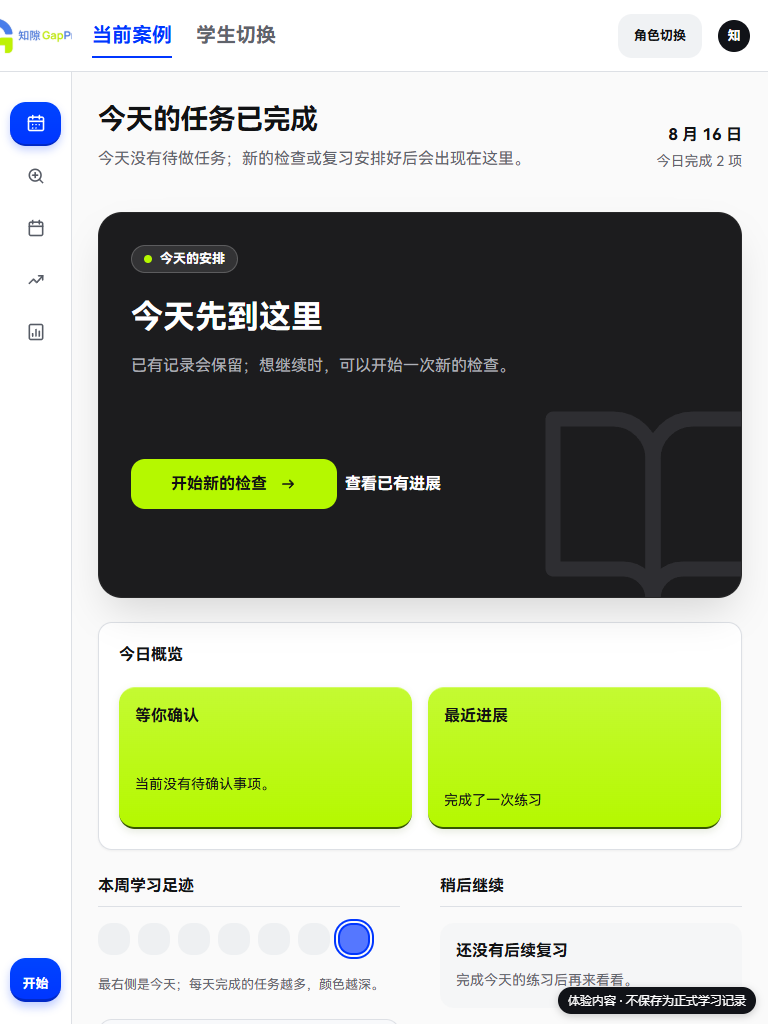
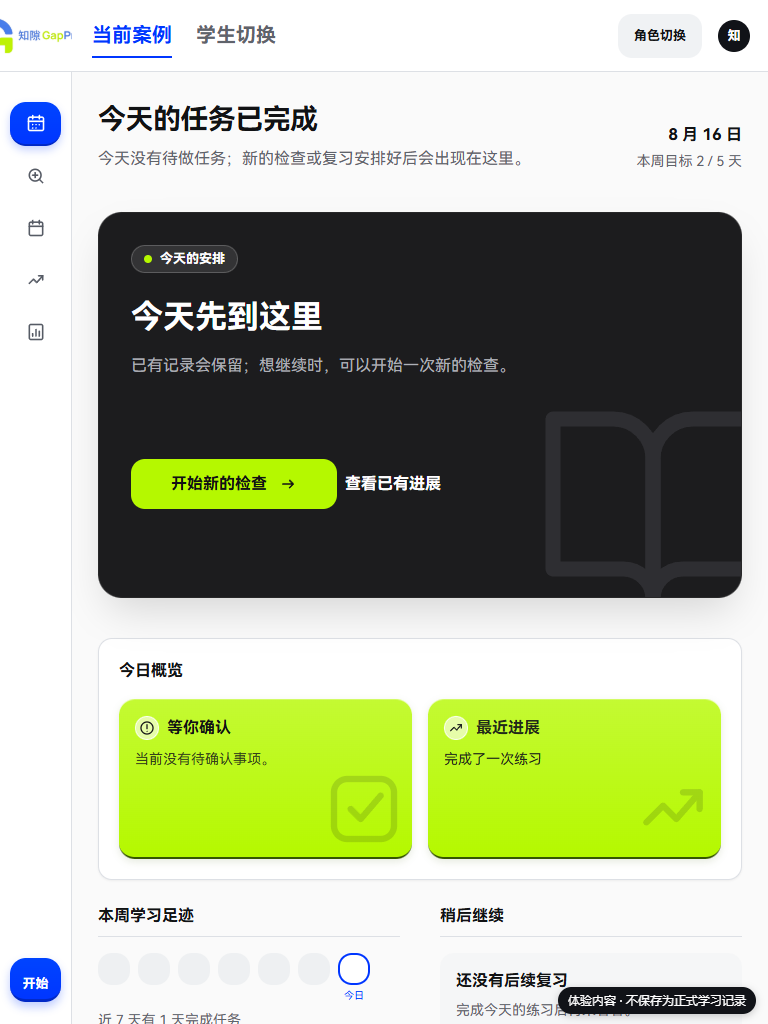
fix: match live Today to Stitch details

Changed region(s): [[0.125, 0.625, 0.9375, 1.0], [0.125, 0.875, 0.5, 1.0], [0.8438, 0.125, 0.9688, 0.1875]]

diff --git a/apps/web/app/globals.css b/apps/web/app/globals.css
@@ -26,7 +26,7 @@ a:focus-visible,button:focus-visible,summary:focus-visible{outline:2px solid var
 .today-grid{display:grid;grid-template-columns:minmax(0,2fr) minmax(0,1fr);gap:40px;align-items:start}.main-column{min-width:0;display:flex;flex-direction:column;gap:24px}.hero-card{position:relative;overflow:hidden;border-radius:24px;background:#1c1c1e;color:#fff;padding:40px;box-shadow:0 20px 40px -10px rgba(0,0,0,.15);border:1px solid rgba(255,255,255,.05)}.hero-content{position:relative;z-index:1;display:flex;flex-direction:column;align-items:flex-start;min-height:320px}.task-label-row{width:100%;display:flex;align-items:flex-start;margin-bottom:24px}.dark-chip,.time-chip{min-height:28px;border-radius:999px;display:flex;align-items:center;gap:8px;padding:4px 12px;font-size:13px;line-height:18px;font-weight:700}.dark-chip{background:rgba(255,255,255,.1);border:1px solid rgba(255,255,255,.2)}.dark-chip i{width:8px;height:8px;background:var(--lime);border-radius:50%}.time-chip{position:absolute;z-index:2;top:40px;right:40px;color:var(--lime);background:rgba(181,248,0,.1);border:1px solid rgba(181,248,0,.2)}.time-chip svg{width:16px;height:16px}
 .hero-card h2{font-size:32px;line-height:40px;margin:0 0 16px;font-weight:700}.hero-content>p{font-size:16px;line-height:26px;color:#aeb0b7;margin:0 0 32px;max-width:512px}.steps{padding-top:16px;margin:0 0 auto;display:flex;flex-wrap:wrap;gap:16px;align-items:center;position:relative;z-index:2}.steps>div{min-height:38px;padding:8px 16px;display:flex;align-items:center;gap:8px;border-radius:999px;background:#2c2c2e;border:1px solid rgba(255,255,255,.1);color:rgba(255,255,255,.7);font-size:13px;line-height:18px;font-weight:700;white-space:nowrap}.steps>div:first-child{background:rgba(255,255,255,.1);border-color:rgba(255,255,255,.2);color:#fff}.steps b{display:grid;place-items:center;width:20px;height:20px;border-radius:50%;background:rgba(255,255,255,.2);color:rgba(255,255,255,.7);font-size:12px}.steps>div:first-child b{background:#fff;color:#1c1c1e}.path-arrow{width:16px;height:16px;color:rgba(255,255,255,.4);flex:none}.cta-row{margin-top:48px;width:100%;display:flex;align-items:center}.lime-button,.primary-blue,.dark-button{min-height:48px;padding:0 26px;border-radius:12px;display:inline-flex;align-items:center;justify-content:center;gap:12px;font-weight:750}.lime-button{min-height:50px;padding:0 40px;border-radius:14px;background:var(--lime);color:#111214;position:relative;z-index:2}.lime-button svg,.primary-blue svg{width:18px;height:18px}.lime-button:hover{filter:brightness(.96)}.primary-blue{background:var(--blue);color:#fff}.primary-blue:hover{background:var(--blue-hover)}.dark-button{min-height:44px;padding:0 16px;background:var(--dark);color:#fff;box-shadow:0 2px 4px rgba(0,0,0,.18)}
 .book-art{position:absolute;right:0;bottom:0;width:240px;height:240px;transform:translate(32px,32px);opacity:.2;color:#777982;pointer-events:none}
-.overview{background:#fff;border:1px solid var(--border);border-radius:14px;padding:24px;box-shadow:0 1px 2px rgba(17,19,24,.05)}.overview>h2,.footprint h2,.continue>h2{font-size:16px;line-height:24px;margin:0 0 16px;font-weight:650}.overview-grid{display:grid;grid-template-columns:1fr 1fr;gap:16px}.lime-card{position:relative;overflow:hidden;min-height:176px;background:linear-gradient(to bottom,#c4fa32,#b5f800);border-top:1px solid rgba(255,255,255,.4);border-bottom:2px solid #355500;border-radius:16px;padding:16px;box-shadow:0 3px 8px rgba(60,90,0,.12);display:flex;flex-direction:column;justify-content:space-between}.lime-heading{display:flex;align-items:center;gap:8px;margin-bottom:8px}.lime-heading svg{width:24px;height:24px;padding:3px;border-radius:50%;background:rgba(255,255,255,.6);border:1px solid rgba(255,255,255,.8)}.lime-heading h3{font-size:16px;line-height:24px;margin:0}.lime-card p{margin:0 0 16px;font-size:14px;line-height:22px;max-width:90%;position:relative;z-index:2}.lime-card .card-art{position:absolute;width:80px;height:80px;right:8px;bottom:8px;padding:0;border:0;background:none;border-radius:0;opacity:.15}.dark-button{position:relative;z-index:2;align-self:flex-start;margin-top:auto}
+.overview{margin-top:16px;background:#fff;border:1px solid var(--border);border-radius:14px;padding:24px;box-shadow:0 1px 2px rgba(0,0,0,.05)}.overview>h2,.footprint h2,.continue>h2{font-size:16px;line-height:24px;margin:0 0 16px;font-weight:650}.overview-grid{display:grid;grid-template-columns:1fr 1fr;gap:16px}.lime-card{position:relative;overflow:hidden;min-height:160px;background:linear-gradient(to bottom,#c4fa32,#b5f800);border-top:1px solid rgba(255,255,255,.4);border-bottom:2px solid #355500;border-radius:16px;padding:16px;box-shadow:0 3px 8px rgba(60,90,0,.12);display:flex;flex-direction:column;justify-content:space-between}.lime-content{position:relative;z-index:2}.lime-heading{display:flex;align-items:center;gap:8px;margin-bottom:8px}.lime-heading svg{width:24px;height:24px;padding:3px;border-radius:50%;background:rgba(255,255,255,.6);border:1px solid rgba(255,255,255,.8)}.lime-heading h3{font-size:16px;line-height:24px;margin:0;font-weight:650}.lime-card p{margin:0;font-size:14px;line-height:22px;max-width:90%;position:relative;z-index:2;color:rgba(17,19,24,.8)}.lime-card .card-art{position:absolute;width:80px;height:80px;right:8px;bottom:8px;padding:0;border:0;background:none;border-radius:0;opacity:.15}.dark-button{position:relative;z-index:2;align-self:flex-start;margin-top:auto}
 .right-column{display:flex;flex-direction:column;gap:40px;align-content:start}.footprint,.continue{background:transparent}.footprint h2,.continue>h2{padding-bottom:8px;border-bottom:1px solid var(--border)}.day-grid{display:grid;grid-template-columns:repeat(7,32px);gap:8px;margin:0 0 24px}.day-grid>span{display:block;width:32px;height:32px;border-radius:14px;background:#eef0f2;position:relative}.day-grid .done{background:var(--blue)}.day-grid .today{background:#fff;border:2px solid var(--blue)}.day-grid i{position:absolute;top:calc(100% + 5px);left:50%;transform:translateX(-50%);font-size:10px;color:var(--blue);font-style:normal;white-space:nowrap}.footprint p{font-size:14px;line-height:22px;color:var(--ink-2);margin:0}
 .continue-list{display:flex;flex-direction:column;gap:16px}.continue article{background:#fff;border:1px solid var(--border);border-radius:14px;padding:16px;box-shadow:0 1px 2px rgba(17,19,24,.05)}.task-row,.progress-row{display:flex;align-items:flex-start;justify-content:space-between;gap:12px}.task-row{margin-bottom:8px}.task-row strong{font-size:16px;line-height:24px}.task-row span,.progress-row>span{color:var(--ink-2);font-size:14px;line-height:22px;white-space:nowrap;font-variant-numeric:tabular-nums}.progress-row{align-items:center}.mini-progress{flex:1;height:8px;border-radius:999px;background:var(--surface-2);overflow:hidden}.mini-progress i{display:block;height:100%;background:var(--blue);border-radius:inherit}
 .next-check{background:#fff;border:1px solid var(--border);border-radius:14px;padding:24px;box-shadow:0 1px 2px rgba(17,19,24,.05);display:flex;flex-direction:column;gap:16px}.next-check header{display:flex;justify-content:space-between;align-items:center;border-bottom:1px solid var(--border);padding-bottom:12px;margin:0;font-size:13px;line-height:18px}.next-check header span{display:flex;align-items:center;gap:8px;font-weight:700}.next-check header svg{width:16px;height:16px;color:var(--blue)}.next-check h2{font-size:16px;line-height:24px;margin:0 0 4px}.next-check p{font-size:14px;line-height:22px;color:var(--ink-2);margin:0 0 4px}.next-check button{width:100%;min-height:44px;background:#fff;border:1px solid var(--border);border-radius:14px;margin:0;font-weight:700}.next-check button:disabled{opacity:.72}.next-check small{display:block;text-align:center;color:var(--ink-3);font-size:12px;line-height:18px}
@@ -45,7 +45,7 @@ a:focus-visible,button:focus-visible,summary:focus-visible{outline:2px solid var
 @media (max-width:900px){.upload-layout{grid-template-columns:1fr}.upload-page{padding:30px 26px}.upload-guidance{order:2}}
 @media (max-width:640px){html,body{height:auto;min-height:100%;overflow:auto}.app-shell{display:block;height:auto;min-height:100vh;min-height:100dvh;overflow:visible}.topbar{height:64px;position:sticky;top:0}.brand-crop{width:150px;height:63px}.brand-source{width:158px!important;height:158px!important;left:-4px}.top-tabs,.top-actions,.sidebar{display:none}.mobile-menu{display:block;position:fixed;right:12px;top:10px;z-index:8}.mobile-menu summary{list-style:none;width:44px;height:44px;display:grid;place-items:center;border-radius:12px;background:var(--surface-2);cursor:pointer}.mobile-menu summary svg{width:24px}.mobile-menu nav{position:absolute;right:0;top:50px;width:190px;display:grid;padding:10px;background:#fff;border:1px solid var(--border);border-radius:14px;box-shadow:0 12px 32px rgba(17,18,20,.12)}.mobile-menu nav a{min-height:44px;padding:8px 12px}.content{height:auto;min-height:calc(100vh - 64px);overflow:visible;overscroll-behavior:auto}.today-page,.placeholder-page{padding:24px 18px 92px}.title-row{display:block;margin-bottom:24px}.title-row h1,.placeholder-page h1{font-size:27px}.date-summary{text-align:left;margin-top:14px}.today-grid{display:block}.hero-card{height:auto;min-height:460px;padding:24px 20px}.hero-meta{align-items:flex-start;gap:8px;flex-wrap:wrap}.hero-card h2{font-size:25px}.steps{align-items:stretch;flex-direction:column;margin:26px 0}.steps li+li:before{display:none}.cta-row{align-items:stretch;flex-direction:column;gap:12px}.cta-row .lime-button{width:100%;padding-inline:20px}.cta-row .hero-secondary-link{justify-content:center}.overview{padding:18px;margin-bottom:22px}.overview-grid,.onboarding-notes{grid-template-columns:1fr}.right-column{display:grid;grid-template-columns:1fr}.day-grid{gap:7px}.onboarding-main{padding:24px 18px}.button-row{align-items:stretch;flex-direction:column}.ghost-link{justify-content:center}.state-card{padding:28px 20px;display:block}.state-card>svg{margin-bottom:20px}.sk-title{width:100%}.sk-line{width:80%}.sk-hero{height:440px}.right-column{margin-top:24px}}
 
-.overview-panel h2{margin-bottom:20px}.overview-facts{margin-top:0}.overview-activity>p,.overview-goal span{display:block;color:var(--ink-2);font-size:13px;line-height:20px;margin:0}.server-day-grid{grid-template-columns:repeat(7,32px);margin-bottom:20px}.server-day-grid .activity-level-0{background:#eef0f2}.server-day-grid .activity-level-1{background:#b8c7ff}.server-day-grid .activity-level-2{background:#5577ff}.server-day-grid .activity-level-3{background:#0036ff}.server-day-grid .today{outline:2px solid #0036ff;outline-offset:2px}.overview-goal{margin-top:24px;padding:16px;border:1px solid var(--border);border-radius:14px;background:#f8f9fb}.overview-goal h3{font-size:15px;line-height:22px;margin:0 0 12px}.overview-goal p{font-size:24px;line-height:32px;font-weight:750;margin:0 0 4px}.overview-fact-card{min-height:142px}.overview-fact-card p{max-width:100%}.recent-progress-list{display:grid;gap:8px;margin:0;padding:0;list-style:none;font-size:14px;line-height:21px;position:relative;z-index:2}.next-check{margin-bottom:24px}.next-check p{margin:0 0 4px}.next-check button{cursor:default}.next-check button:disabled{opacity:.72}
+.overview-facts{margin-top:0}.server-day-grid{grid-template-columns:repeat(7,32px);margin-bottom:24px}.server-day-grid .today{background:#fff;border:2px solid #0036ff;outline:0}.overview-fact-card{min-height:160px}.overview-fact-card p{max-width:100%}.overview-fact-card[data-recent-progress-count] .lime-content{color:rgba(17,19,24,.9)}.recent-progress-list{display:grid;gap:8px;margin:0;padding:0;list-style:none;font-size:14px;line-height:22px;position:relative;z-index:2}.next-check{margin-bottom:24px}.next-check p{margin:0 0 4px}.next-check button{cursor:default}.next-check button:disabled{opacity:.72}
 @media (max-width:640px){.overview-summary,.overview-facts{grid-template-columns:1fr}}
 
 .demo-review-page{padding:40px 32px 56px;max-width:1264px;margin:0 auto}.demo-review-banner{display:flex;align-items:center;justify-content:space-between;gap:16px;padding:14px 18px;border:1px solid #c7d3ff;border-radius:14px;background:#edf2ff;color:#18317e}.demo-review-banner strong{font-size:15px}.demo-review-banner span{font-size:13px;font-weight:700;color:#315fc4}.demo-review-heading{display:flex;align-items:flex-end;justify-content:space-between;gap:24px;margin:28px 0 30px}.demo-review-heading h1{font-size:30px;line-height:38px;letter-spacing:-.02em;margin:4px 0 8px}.demo-review-heading p:not(.eyebrow){margin:0;color:var(--ink-2);line-height:26px}.demo-review-status,.demo-panel-tag,.demo-field-hint{display:inline-flex;align-items:center;min-height:28px;padding:4px 10px;border-radius:999px;background:#f0f2f4;color:var(--ink-2);font-size:12px;font-weight:750;white-space:nowrap}.demo-review-grid{display:grid;grid-template-columns:minmax(0,1.08fr) minmax(0,.92fr);gap:24px;align-items:start}.demo-review-panel{background:#fff;border:1px solid var(--border);border-radius:20px;padding:26px;min-width:0}.demo-review-panel-heading{display:flex;align-items:flex-start;justify-content:space-between;gap:16px;margin-bottom:20px}.demo-review-panel-heading>div>span{color:var(--ink-2);font-size:13px}.demo-review-panel-heading h2{font-size:20px;line-height:28px;margin:3px 0 0}.demo-panel-tag-warn{background:#fff4d8;color:#8a5c00}.demo-paper{position:relative;min-height:430px;overflow:hidden;padding:30px 34px;background:#fffef8;border:1px solid #e4dfd1;border-radius:12px;box-shadow:0 8px 18px rgba(55,47,27,.08);color:#343331;transform:rotate(-.6deg)}.demo-paper-top{display:flex;justify-content:space-between;gap:10px;color:#70716d;font-size:11px;font-weight:800;letter-spacing:.08em}.demo-paper-rule{height:3px;margin:14px 0 34px;background:#233a88;border-radius:99px}.demo-paper-kicker{margin:0 0 28px;color:#6f746f;font-size:12px;text-transform:uppercase;letter-spacing:.12em}.demo-paper-question{max-width:80%;font-family:Georgia,serif;font-size:20px;line-height:34px;margin:0}.demo-paper-answer{display:inline-block;padding:0 7px;border-bottom:2px solid #bb7b00;background:#fff1c9;color:#765000}.demo-paper-mark{position:absolute;right:52px;top:178px;width:48px;height:48px;display:grid;place-items:center;border:3px solid #c78b17;border-radius:50%;color:#a76b00;font-size:28px;font-weight:800;transform:rotate(12deg)}.demo-paper-lines{display:grid;gap:16px;margin-top:86px}.demo-paper-lines span{display:block;width:92%;height:1px;background:#d8d4c9}.demo-paper-lines span:nth-child(2){width:78%}.demo-paper-lines span:nth-child(3){width:88%}.demo-paper-footer{position:absolute;left:34px;right:34px;bottom:24px;margin:0;padding-top:12px;border-top:1px solid #e1dccf;color:#8b887f;font-size:11px}.demo-review-note,.demo-review-helper{font-size:13px;line-height:21px;color:var(--ink-2)}.demo-review-note{margin:20px 0 0}.demo-review-fields{display:grid;gap:20px}.demo-review-field{display:grid;gap:8px}.demo-review-field label{display:flex;align-items:center;gap:8px;font-size:14px;font-weight:750}.demo-field-hint{min-height:24px;padding:2px 8px;background:#fff4d8;color:#8a5c00}.demo-review-field textarea,.demo-review-field input{width:100%;border:1px solid var(--border-strong);border-radius:12px;background:#fff;padding:12px 14px;color:var(--ink);font:inherit;line-height:24px;resize:vertical}.demo-review-field textarea:focus,.demo-review-field input:focus{outline:2px solid var(--blue);outline-offset:2px;border-color:var(--blue)}.demo-review-field textarea:disabled,.demo-review-field input:disabled{background:#f5f6f7;color:var(--ink-2)}.demo-review-helper{margin:22px 0 0}.demo-review-primary{min-height:48px;padding:0 22px;border:0;border-radius:12px;background:var(--blue);color:#fff;font-weight:750;cursor:pointer}.demo-review-primary:hover{background:var(--blue-hover)}.demo-review-primary:focus-visible{outline:2px solid var(--blue);outline-offset:3px}.demo-review-form-error,.demo-review-confirmed{display:grid;gap:3px;margin:14px 0 0;padding:12px 14px;border-radius:12px;font-size:13px;line-height:21px}.demo-review-form-error{background:#fce8e6;color:#8f211b}.demo-review-confirmed{background:#e7f6ed;border:1px solid #b2dfc4;color:#247a4d}.demo-review-confirmed span{color:#326a4a}.demo-review-links{display:flex;flex-wrap:wrap;gap:12px;margin-top:24px}.demo-review-links .ghost-link{padding:0 8px}.demo-review-live{margin:18px 0 0;color:var(--ink-2);font-size:13px}.demo-review-state{max-width:760px;padding:38px;background:#fff;border:1px solid var(--border);border-radius:20px}.demo-review-state-label{display:inline-flex;padding:5px 10px;border-radius:999px;background:var(--blue-soft);color:#315fc4;font-size:13px;font-weight:750}.demo-review-state h2,.demo-review-state h1{font-size:24px;line-height:32px;margin:18px 0 8px}.demo-review-state p{color:var(--ink-2);margin:0}.demo-review-state-error{border-color:#ecc4c0;background:#fffafa}.demo-review-state-error .demo-review-state-label{background:#fce8e6;color:#8f211b}

diff --git a/apps/web/components/live-today.tsx b/apps/web/components/live-today.tsx
@@ -27,10 +27,6 @@ function TaskDates({
   </div>;
 }
 
-function activityLevel(completedTaskCount: number): string {
-  return `activity-level-${Math.min(completedTaskCount, 3)}`;
-}
-
 const progressCopy: Record<TodayOverview["recentProgress"][number]["kind"], string> = {
   recognition_confirmed: "学习材料已确认",
   diagnosis_checked: "完成了一次学习检查",
@@ -41,47 +37,41 @@ const progressCopy: Record<TodayOverview["recentProgress"][number]["kind"], stri
 };
 
 export function TodayFootprint({ overview }: { overview: TodayOverview }) {
+  const activeDays = overview.activityDays.filter(day => day.completedTaskCount > 0).length;
   return <section className="footprint overview-activity" aria-labelledby="activity-title">
     <h2 id="activity-title">本周学习足迹</h2>
     <div className="day-grid server-day-grid" role="list" aria-label="本周学习足迹">
       {overview.activityDays.map((day, index) => <span
-        className={`${activityLevel(day.completedTaskCount)}${index === overview.activityDays.length - 1 ? " today" : ""}`}
+        className={`${day.completedTaskCount > 0 ? "done" : ""}${index === overview.activityDays.length - 1 ? " today" : ""}`}
         data-local-date={day.localDate}
         key={day.localDate}
         role="listitem"
         aria-label={`${day.localDate}，完成任务 ${day.completedTaskCount} 项`}
         title={`${day.localDate}：完成任务 ${day.completedTaskCount} 项`}
-      />)}
+      >{index === overview.activityDays.length - 1 ? <i>今日</i> : null}</span>)}
     </div>
-    <p>最右侧是今天；每天完成的任务越多，颜色越深。</p>
-    <OverviewGoal overview={overview}/>
-  </section>;
-}
-
-function OverviewGoal({ overview }: { overview: TodayOverview }) {
-  return <section className="overview-goal" aria-labelledby="goal-title">
-    <h3 id="goal-title">本周目标</h3>
-    {overview.weeklyGoal
-      ? <p data-weekly-goal>{overview.weeklyGoal.completedDays} / {overview.weeklyGoal.targetDays} 天</p>
-      : <p data-weekly-goal="unset">目标待设置</p>}
-    <span>{overview.weeklyGoal ? "继续保持本周节奏" : "完成第一次检查后即可设置目标"}</span>
+    <p data-active-days={activeDays}>近 7 天有 {activeDays} 天完成任务</p>
   </section>;
 }
 
 function OverviewPending({ overview }: { overview: TodayOverview }) {
   const count = overview.pendingConfirmationCount;
   return <article className="lime-card overview-fact-card" data-pending-confirmations={count}>
-    <div className="lime-heading"><h3>等你确认</h3></div>
-    <p>{count > 0 ? `有 ${count} 项内容等你确认。` : "当前没有待确认事项。"}</p>
+    <div className="lime-content"><div className="lime-heading"><Icon name="alert"/><h3>等你确认</h3></div>
+      <p>{count > 0 ? `有 ${count} 项内容等你确认。` : "当前没有待确认事项。"}</p>
+    </div>
+    <Icon name="check" className="card-art"/>
   </article>;
 }
 
 function OverviewProgress({ overview }: { overview: TodayOverview }) {
   return <article className="lime-card overview-fact-card" data-recent-progress-count={overview.recentProgress.length}>
-    <div className="lime-heading"><h3>最近进展</h3></div>
-    {overview.recentProgress.length
-      ? <ul className="recent-progress-list">{overview.recentProgress.slice(0, 2).map(progress => <li key={progress.eventId}>{progressCopy[progress.kind]}</li>)}</ul>
-      : <p>暂无新的学习进展。</p>}
+    <div className="lime-content"><div className="lime-heading"><Icon name="progress"/><h3>最近进展</h3></div>
+      {overview.recentProgress.length
+        ? <ul className="recent-progress-list">{overview.recentProgress.slice(0, 2).map(progress => <li key={progress.eventId}>{progressCopy[progress.kind]}</li>)}</ul>
+        : <p>暂无新的学习进展。</p>}
+    </div>
+    <Icon name="progress" className="card-art"/>
   </article>;
 }
 
@@ -231,7 +221,9 @@ function TodayDateSummary({ overview }: { overview: TodayOverview }) {
   const [, month = "", day = ""] = today.localDate.split("-");
   return <div className="date-summary" data-today-local-date={today.localDate}>
     <strong>{Number(month)} 月 {Number(day)} 日</strong>
-    <span>今日完成 {today.completedTaskCount} 项</span>
+    <span>{overview.weeklyGoal
+      ? `本周目标 ${overview.weeklyGoal.completedDays} / ${overview.weeklyGoal.targetDays} 天`
+      : "本周目标待设置"}</span>
   </div>;
 }
 

diff --git a/apps/web/components/live-today.test.tsx b/apps/web/components/live-today.test.tsx
@@ -100,17 +100,23 @@ describe("Today overview projection", () => {
     expect(html).toContain('data-pending-confirmations="2"');
     expect(html).toContain("完成了一次练习");
     expect(html).toContain('class="overview overview-panel"');
+    expect(html.match(/class="lime-heading"/g)).toHaveLength(2);
+    expect(html.match(/class="card-art"/g)).toHaveLength(2);
     expect(html).not.toContain("本周学习足迹");
     expect(html).not.toContain("eventId");
     expect(html).not.toContain("caseId");
     expect(html).not.toContain("已掌握");
   });
 
-  it("projects activity and the weekly goal into the right-column footprint", () => {
+  it("projects factual activity into the Stitch footprint without an extra goal card", () => {
     const html = renderToStaticMarkup(createElement(TodayFootprint, { overview }));
     expect(html).toContain('class="footprint overview-activity"');
     expect(html).toContain('data-local-date="2026-08-16"');
-    expect(html).toContain("2 / 5 天");
+    expect(html).toContain("今日");
+    expect(html).toContain('data-active-days="2"');
+    expect(html).toContain("近 7 天有 2 天完成任务");
+    expect(html).not.toContain("overview-goal");
+    expect(html).not.toContain("activity-level-");
   });
 
   it("keeps a D7 next check read-only and handles no check", () => {

diff --git a/apps/web/components/icons.tsx b/apps/web/components/icons.tsx
@@ -10,6 +10,7 @@ export function Icon({ name, ...props }: SVGProps<SVGSVGElement> & { name: strin
     arrow: <><path d="M5 12h14M14 7l5 5-5 5"/></>,
     clock: <><circle cx="12" cy="12" r="9"/><path d="M12 7v5l3 2"/></>,
     check: <><rect x="3" y="3" width="18" height="18" rx="4"/><path d="m8 12 3 3 6-7"/></>,
+    alert: <><circle cx="12" cy="12" r="9"/><path d="M12 7v6M12 17h.01"/></>,
     menu: <><path d="M4 7h16M4 12h16M4 17h16"/></>,
     upload: <><path d="M12 16V4M7 9l5-5 5 5"/><path d="M5 14v5h14v-5"/></>,
   };

diff --git a/TDD.md b/TDD.md
@@ -2,15 +2,15 @@
 project_name: "知隙 GapProof"
 document_title: "GapProof 技术设计文档（TDD）"
 document_role: "技术路线、系统边界、架构约束与工程验收的权威文档"
-version: "0.3.36"
+version: "0.3.37"
 status: "DRAFT_FOR_IMPLEMENTATION"
 last_updated: "2026-08-16"
 timezone: "Asia/Singapore"
 canonical_path: "D:\\Users\\Eason\\Documents\\ChatGPT\\知隙GapProof\\TDD.md"
 repository_url: "https://github.com/ceason436-hue/GapProof.git"
 upstream_documents:
-  - "D:\\Users\\Eason\\Documents\\ChatGPT\\知隙GapProof\\PROJECT_MASTER.md v0.1.43"
-  - "D:\\Users\\Eason\\Documents\\ChatGPT\\知隙GapProof\\PRD.md Draft v0.1.35"
+  - "D:\\Users\\Eason\\Documents\\ChatGPT\\知隙GapProof\\PROJECT_MASTER.md v0.1.44"
+  - "D:\\Users\\Eason\\Documents\\ChatGPT\\知隙GapProof\\PRD.md Draft v0.1.36"
 ---
 
 # 知隙 GapProof 技术设计文档（TDD）
@@ -1216,6 +1216,7 @@ Serverless 很适合短 API 和自动扩容，但 OCR、多轮模型、报告、
 - `/materials/{caseId}/review` 以 1s→2s→3s 受控轮询读取同一 Case extraction；确认后依次调用 run-next、hypotheses、probe attempts 和下一次 run-next，导航到 Today guided。每个写入为独立 UUIDv7 意图；同 key/body 只重试一次未知结果，冲突先刷新再由用户重新确认，`NETWORK_UNKNOWN` 后锁定。
 - Today `overview.hasStartedJourney` 由服务端按学生是否存在未删除 Case 投影，前端据此区分首次使用与已有旅程但当前无任务。`GET /v1/quick-checks/synthetic` 仅返回 3 道 `synthetic_demo/original_fixture` 题目且不包含答案键；`POST /v1/quick-checks/synthetic/attempts` 使用 UUIDv7、同步 in-flight 锁和同 key/body 一次网络未知重试，服务端以私有答案确定性评分。结果强制 `learningRecordCreated:false`、`reportReady:false`，不创建 Case、学习证据或幂等数据库记录；最终未知后前端锁定，避免不确定请求被重复提交。
 - `LiveToday` 将 active、started-no-task 与 completed 服务端状态投影到共享 `TodayDashboard`：`.today-grid` 桌面保持 `2fr/1fr` 与 40px 间距，主栏直接包含深色 Hero 和 overview，右栏直接包含 footprint、continuation 与 next-check，不再使用独立 `.live-today-grid` 或整列 `.live-panel`。guided/D1/D7 客户端仅在写接口确认成功并写入本地成功态后调用 `router.refresh()`；版本冲突、Case 读取失败、普通错误与 `NETWORK_UNKNOWN` 均不刷新。
+- Stitch V1.1 精确视觉契约继续作用于真实读模型：主栏 Hero 到 overview 的视觉间距为 40px，overview 为 24px padding/14px radius，标题下 16px，双事实卡 16px gap/160px height 并复用原圆形图标与 80px 装饰图；右栏 footprint 不含目标子卡，日期块 32px/8px gap/14px radius，今天为单层 2px 蓝边框和可见标签，周目标摘要投影到页头。视觉 Fixture 只替换 synthetic 服务端事实，不把 Mock 数值写入真实页面。
 - `/diagnose` 提供上传与三题合成检查双入口，`/diagnose/quick-check` 承载上述无记录体验；`/student/plan`、`/student/progress`、`/student/report` 只展示各自事实空状态，报告明确未开放。上传选图只在浏览器内生成缩略图和五步状态，不向 UI 暴露本地文件名、对象键、hash、token 或内部编号。
 - `packages/tools/src/parse-paper/alibaba-ocr-spike.ts` 提供默认关闭的内部安全 Spike，不实现现有 `ParsePaperAdapter` 生产接线。输入仅允许 `synthetic/desensitized`、无 userinfo/hash 的 HTTPS source URL、最多 8 个机器 token page hints；timeout 限制 100ms–30s。transport 只接收 source URL 与受限提示，不接收 Case/student/trace 标识；401/403/408/429/5xx/网络与无效响应映射为稳定错误，空结果或低置信进入 `needs_confirmation`。原始 Provider payload、URL 查询、headers/凭据、Provider warnings 与精确置信度不会进入 `ToolResult`。
 - `alibaba-ocr-official.ts` 使用官方 `@alicloud/ocr-api20210707@3.1.3` 调用 `RecognizeEduPaperOcr`：请求固定 `scan`、`JHighSchool_English`、`OutputOricoord:false`，SDK 自动重试关闭且连接/读取超时继承 adapter 边界。SDK 类型定义的 string `Data` 与官方示例 object 形态均经防御解析；有效 `prism_wordsInfo` 归一化为单页 `ParsePaperOutput`，无效结构 fail closed。`ocr:smoke` 只从 ignored `.env` 读取凭据、只接受 synthetic/desensitized HTTPS source，输出不含凭据、签名 URL 或 Provider 原始响应；当前未执行真实调用。
@@ -1613,6 +1614,7 @@ Git 远端：`https://github.com/ceason436-hue/GapProof.git`
 
 | Push ID | 日期 | 分支 | 状态 | 提交摘要 | 主要内容 | 验证 |
 |---|---|---|---|---|---|---|
+| PUSH-029 | 2026-08-16 | `main` | `pushed` | `fix: match live Today to Stitch details` | 按 `today-final.stitch.html/png` 精确复原真实 API Today 的学习足迹与今日概览：移除额外目标卡并把目标摘要放回页头，恢复单层今日描边/标签、40px 视觉间距、16px 标题间距、160px 双卡和原图标装饰；真实数值仍来自 API，不复制 Mock 学习事实 | 105 apps/web、workspace/web TypeScript、Next production build、`git diff --check`、6 状态 × 4 视口真实 API 精确 DOM Token/几何/横向溢出/截图门禁及实时页面核验通过；`.env` 与授权 `reference/test-materials/` 未纳入暂存；同轮推送并核对本地、`origin/main` 与 GitHub refs 一致 |
 | PUSH-028 | 2026-08-16 | `main` | `pushed` | `fix: reunify live Today with frozen dashboard` | 修复真实 API Today 与已确认 Mock 视觉骨架分叉：active、无当前任务和已完成统一使用深色 Hero、事实概览，以及无整列外框的学习足迹/稍后继续/下次检查右栏；当前 D1/D7 不在“稍后继续”重复展示；guided、D1、D7 仅在服务端确认成功后刷新权威 Today。Fixture 均为 synthetic，不形成真实学生记录；不提升 OCR、个性化或学习效果状态 | 105 apps/web、workspace/web TypeScript、Next production build、`git diff --check`、6 状态 × 4 视口真实 API DOM 几何/横向溢出/截图门禁及桌面/移动人工复核通过；`.env` 与授权 `reference/test-materials/` 未纳入暂存；同轮推送后核对本地、`origin/main` 与 GitHub refs 一致 |
 | PUSH-027 | 2026-08-16 | `main` | `pushed` | `feat: add bounded DeepSeek provider seam and refine student entry states` | 收口首次使用、上传选择后替换图片、事实空状态与学生可见文案；新增默认关闭的 DeepSeek structured adapter、环境配置和显式 smoke CLI。输入仅限 synthetic/desensitized，结果本地校验，未接 API/Worker/UI，未执行真实模型调用；未纳入授权 `reference/test-materials/`；实现批次为 `1cdc7b7` | 190 fast、55 tools focused、59 PostgreSQL/API/Worker integration、98 apps/web、双 TypeScript、Next production build、migration drift、真实栈 smoke、四张更新截图、`git diff --check` 与敏感信息/暂存范围审计通过；上传/onboarding Playwright 因当前 Desktop 浏览器启动握手超时 blocked，页面未执行；实现批次已推送并核对 `origin/main` |
 | PUSH-001 | 2026-08-14 | `main` | `pushed` | `feat: establish Phase A backend thin slice` | 建立首个 GitHub 基线：四份项目文档、Bun workspace、领域状态机、PostgreSQL/Drizzle、Fastify API、pg-boss Worker、fake OCR、识别确认、竞争性错因与等待确认小题闭环；同时纳入 Stitch 公开参考资产、教材/试题来源元数据、私有转换工具与 Git 隔离门禁 | 21 条快速测试、16 条真实数据库/API/Worker 集成测试及 TypeScript 严格类型检查通过；私有材料和生成目录未进入暂存区；远端 `main` 已核对为首个基线提交 |
@@ -1643,6 +1645,11 @@ Git 远端：`https://github.com/ceason436-hue/GapProof.git`
 | PUSH-026 | 2026-08-16 | `main` | `pushed` | `fix: decouple demo readiness from product copy` | Demo 栈 Web readiness 从已移除的“真实 API 模式”可见文案改为稳定 `today-page` 页面结构信号，防止产品文案治理后 90 秒误判并停止 API/Worker/Web 子进程 | root typecheck、`git diff --check`、Web 200、API Today 200 且含 overview、Demo 父进程持续存活、3000/4000 监听及生成残留精确清理通过；同轮推送后核对本地/远端 SHA 一致 |
 
 ## 27. 变更日志
+
+### v0.3.37 — 2026-08-16
+
+- 将 Stitch V1.1 的原 HTML/PNG Token 固化到真实 API 视觉门禁：足迹无目标子卡、今日单描边/标签；概览 40px 视觉间距、16px 标题间距、160px 双卡及图标/装饰图。页头显示 nullable 周目标事实，Mock 数值不进入 API 页面。
+- 105 Web、双 TypeScript、Next build、6 状态 × 4 视口精确 DOM/几何/截图门禁与实时页面复核通过；同步 PROJECT_MASTER v0.1.44、PRD v0.1.36、DESIGN v0.2.34 与 PUSH-029。
 
 ### v0.3.36 — 2026-08-16
 

diff --git a/PRD.md b/PRD.md
@@ -7,10 +7,10 @@
 
 | 项目 | 内容 |
 |---|---|
-| 文档状态 | Draft v0.1.35 |
+| 文档状态 | Draft v0.1.36 |
 | 产品名称 | 知隙 GapProof |
 | 文档角色 | 产品需求、业务流程、功能范围与验收标准 |
-| 当前阶段 | PUSH-028 已发布：真实 API Today 与冻结 Mock 视觉骨架已汇流，成功提交后刷新权威页面状态；真实 OCR、个性化、学生记录与学习效果边界不变 |
+| 当前阶段 | PUSH-029 已发布：真实 API Today 的足迹与概览已按 Stitch V1.1 精确复原；服务端事实与真实性边界不变 |
 | 产品形态 | Web 应用 |
 | 目标教材 | 上海教育出版社《义务教育教科书（五·四学制）英语 八年级上册》 |
 | 适用版本 | 目标教材以 ISBN、当前 PDF 哈希和内容快照锁定；版权页不可取得，版次、印次和册次保持未知 |
@@ -505,7 +505,7 @@ Demo 界面或旁白必须明确区分：
 - `[PROTOTYPE]` ready guided intervention 已可在 Today 勾选完整步骤并安全提交；使用权威 Case 版本、UUIDv7 幂等意图、冲突重新确认、独立 GET 恢复和网络未知锁定，完成后只声明安排 D+1，不声明掌握。
 - `[PROTOTYPE]` 学生端无参数入口走真实 API，只有显式 `?source=mock` 使用合成首页；Today overview、guided、ready D1/D7 安全作答和同一 Case review 均已通过受控浏览器门禁。写入使用共享 contracts、权威 Case 版本、UUIDv7、同 key/body 一次未知重试、冲突重新确认与 `NETWORK_UNKNOWN` 锁定；项目本身 P0 合成主闭环已完成，但不得称真实 OCR/真实学习闭环。
 - `[PROTOTYPE]` Today 以服务端 `hasStartedJourney` 区分无 Case 的首次使用与已有记录但当前无任务；首次使用页提供上传与三题合成检查双入口，不显示 Mock 任务。找原因、7 日计划、我的进步、学习报告均有真实路由和各自空状态；报告明确未开放。上传选择后显示有效缩略图与五步进度，但不显示本地文件名或内部存储事实。
-- `[PROTOTYPE]` 真实 API Today 的 active、无当前任务和已完成状态必须复用同一冻结视觉骨架：桌面主栏为深色当前任务 Hero 与两张事实概览卡，右栏直接排列学习足迹、稍后继续和独立下次检查，不得增加包裹整列的大白卡或把足迹重复嵌入概览。guided、D1、D7 提交仅在服务端确认成功后刷新权威 Today 状态，不得用本地推断伪造完成数、进展或后续任务。
+- `[PROTOTYPE]` 真实 API Today 的 active、无当前任务和已完成状态必须复用同一冻结视觉骨架：桌面主栏为深色当前任务 Hero 与两张事实概览卡，右栏直接排列学习足迹、稍后继续和独立下次检查，不得增加包裹整列的大白卡、右栏目标子卡或把足迹重复嵌入概览。周目标摘要位于页头；足迹、目标、待确认数和进展仅替换为服务端事实，不复制 Mock 数值。guided、D1、D7 提交仅在服务端确认成功后刷新权威 Today 状态，不得用本地推断伪造完成数、进展或后续任务。
 - `[PROTOTYPE]` 已实现 JPEG/PNG/WebP、1B–10MiB 的真实字节上传与基础检查；通过后页面要求监护确认并由精确“开始识别并创建案例”调用正式 API，原子创建/绑定同一合成 Demo Case并排队受守卫 Fake OCR。`GET /v1/cases/{caseId}/extraction` 与 `/materials/{caseId}/review` 随后读取、修正和确认同一 Case 的 synthetic fixture，并导航到既有诊断/干预。页面持续说明上传字节未用于识别，不返回对象键、token、内部文件名、hash、内部答案键或精确置信度；该能力不是生产 OSS、真实 OCR、真实个性化或学习效果。
 - `[PROTOTYPE]` Fake OCR 只允许 `simulation && synthetic` Demo Case，API 与 Worker 双重拒绝非 Demo 路径；同一 Case 确认写入沿用既有幂等和版本保护。独立 `/materials/demo/review` 仍保留为零网络 Fixture，不创建或推进 Case；真实 OCR Provider、真实图片区域展示和真实识别质量仍未实现。
 - 因此，以下验收项仍是完整 MVP 的目标，不因后端局部闭环而标记为 `[LIVE]`。
@@ -662,6 +662,7 @@ PROJECT_MASTER.md
 
 | 版本 | 日期 | 说明 |
 |---|---|---|
+| 0.1.36 | 2026-08-16 | 按 Stitch V1.1 原 HTML/PNG 精确复原真实 API Today 学习足迹与今日概览：移除目标子卡、目标摘要回页头，恢复今日标签/单描边、40px 视觉间距、160px 事实卡及原图标装饰。105 Web、双 TypeScript、Next build、6 状态 × 4 视口视觉门禁通过；同步 PROJECT_MASTER v0.1.44、TDD v0.3.37、DESIGN v0.2.34、PUSH-029，不提升 OCR、个性化、学生记录或学习效果状态 |
 | 0.1.35 | 2026-08-16 | 修复真实 API Today 与冻结 Mock 首页的视觉分叉，active/无当前任务/已完成统一为深色 Hero、事实概览及无整列外框右栏；guided/D1/D7 服务端确认成功后刷新权威 Today。105 Web、双 TypeScript、Next build、6 状态 × 4 视口真实 API 视觉门禁通过；同步 PROJECT_MASTER v0.1.43、TDD v0.3.36、DESIGN v0.2.33、PUSH-028，不提升 OCR、个性化、学生记录或学习效果状态 |
 | 0.1.34 | 2026-08-16 | 收口学生端首次使用/上传状态交互与事实空状态文案；新增默认关闭、仅接受 synthetic/desensitized 输入的 DeepSeek structured provider seam 和显式 smoke CLI，未接 API/Worker/UI、未执行真实模型调用。同步 PROJECT_MASTER v0.1.42、TDD v0.3.35、DESIGN v0.2.32、PUSH-027；真实 OCR、真实个性化、学习效果和报告仍 unresolved/deferred |
 | 0.1.33 | 2026-08-16 | 修复 Demo 栈依赖已移除工程文案判断 Web 就绪的问题，改用稳定页面结构信号并恢复 3000/4000 真实 API 预览；同步 PROJECT_MASTER v0.1.41、TDD v0.3.34、DESIGN v0.2.31、PUSH-026，不改变真实 OCR、个性化、学生记录、学习效果或报告范围 |

diff --git a/DESIGN.md b/DESIGN.md
@@ -2,9 +2,9 @@
 project_name: "知隙 GapProof"
 document_title: "GapProof 视觉与交互设计文档（DESIGN）"
 document_role: "信息架构、页面、视觉、交互、状态与可访问性的权威文档"
-version: "0.2.33"
+version: "0.2.34"
 status: "DRAFT_FOR_IMPLEMENTATION"
-current_design_stage: "PUSH-028 已发布：真实 API Today 已恢复冻结 Mock 信息架构并完成桌面/平板/手机视觉门禁；OCR 与真实性边界不变"
+current_design_stage: "PUSH-029 已发布：真实 API Today 的足迹与概览已按 Stitch V1.1 原 HTML/PNG 精确复原；OCR 与真实性边界不变"
 last_updated: "2026-08-16"
 timezone: "Asia/Singapore"
 canonical_path: "D:\\Users\\Eason\\Documents\\ChatGPT\\知隙GapProof\\DESIGN.md"
@@ -547,9 +547,9 @@ Tab 规则：
 
 1. **顶部与标题**：连续白色顶部栏；左侧为暂用的 Logo V1，右侧保留角色/用户入口。页面标题为自然的问候和今天的学习时间摘要，右上显示日期和本周目标完成度。当前首屏不展示搜索框或“新报告”提醒。
 2. **重点任务卡**：黑色/深色卡片，包含任务标题、推荐原因、三枚紧凑步骤胶囊 `看一个例子 → 做一道确认小题 → 换一道新题再试`、右上角青柠绿“预计 10 分钟”胶囊，以及青柠绿、深色文字的 `开始今天的任务` 主按钮。卡片右下的低对比度深灰书本轮廓必须严格沿用 Stitch V1.1 的越界和裁切，这是已确认的视觉风格，不得以“完整可见”为由自行缩放或移位；卡内不使用蓝色主强调。
-3. **本周学习足迹**：使用服务端返回的连续 7 个学生本地日方块矩阵，只用蓝色深浅表示真实 completed task 数：深蓝 `#0036FF`、中蓝 `#5577FF`、浅蓝 `#B8C7FF`、未开始 `#EEF0F2`；今天用蓝色描边/文字标识，不在日期或方块中央额外加点，不混入绿色，不把任务数改写成“已坚持”或学习效果。
-4. **稍后继续与下次检查**：右栏不设置包裹整列的大白卡，依次直接展示学习足迹与周目标、`稍后继续` 任务列表、独立的下次检查卡。任务和检查明确显示学生时区日期、标题、预计时长和可用截止时间；服务端当前 ready D1/D7 在主任务 Hero 作答，右栏非当前复测仍只读，不从任务数组自行推断下次检查。
-5. **今日概览**：主卡下方为白色外层容器，只展示并列的 `等你确认` 与 `最近进展` 两张同尺寸青柠绿卡；7 日足迹与周目标固定在右栏，不得重复嵌入概览。两卡均为 `#B5F800` 绿底黑字、16px 圆角、相同的轻微立体感；当前卡片只读，不生成无服务端状态支持的 CTA。周目标为 `null` 时右栏明确显示“目标待设置/暂无明确周目标”；最近进展只用最多两条中性自然语言，不显示 ID、答案、内部术语或“已掌握”。新用户全零/null/空数组状态不得生成虚构足迹或进展。
+3. **本周学习足迹**：使用服务端返回的连续 7 个学生本地日方块矩阵；每格固定 32×32px、8px 间距、14px 圆角，完成日为 `#0036FF`，未完成为 `#EEF0F2`。今天固定使用白底、单层 2px `#0036FF` 边框，并在下方显示 10px 蓝色“今日”标签；不使用双 outline、不混入绿色，不把任务数改写成“已坚持”或学习效果。足迹下只保留 14/22px 的真实活动摘要，不增加目标子卡。
+4. **稍后继续与下次检查**：右栏不设置包裹整列的大白卡，依次直接展示学习足迹、`稍后继续` 任务列表、独立的下次检查卡；周目标事实位于页头日期摘要，不在足迹中新增卡片。任务和检查明确显示学生时区日期、标题、预计时长和可用截止时间；服务端当前 ready D1/D7 在主任务 Hero 作答，右栏非当前复测仍只读，不从任务数组自行推断下次检查。
+5. **今日概览**：主卡下方 40px 处为白色外层容器，固定 24px padding、14px 圆角、1px `#DDE0E5` 边框；标题下间距 16px。内部只展示并列的 `等你确认` 与 `最近进展` 两张 160px 高青柠绿卡，卡间 16px；两卡恢复 Stitch 的 24px 圆形标题图标和右下 80px/15% opacity 装饰图。7 日足迹与周目标不得嵌入概览；卡片不生成无服务端目标支持的 CTA。最近进展只用最多两条中性自然语言，不显示 ID、答案、内部术语或“已掌握”。新用户全零/null/空数组状态不得生成虚构足迹或进展。
 6. **固定入口**：左侧栏选中项和底部 `开始学习` 快捷按钮均为蓝色、白字、16px 圆角和轻微立体感。底部按钮仅是主卡 CTA 的固定入口，不增加新任务或额外确认。
 
 交互状态：任务未开始时两个入口均进入同一任务；任务进行中均显示“继续学习”；无任务时主卡改为“今天的任务完成了”，底部快捷入口转为查看下次检查或开始添加材料。Hover/pressed 只加强边界和阴影，不通过夸张发光、重阴影或三维翻转制造“立体感”。
@@ -1780,6 +1780,11 @@ MVP 不使用雷达图表示英语能力或掌握度，原因：
 ---
 
 ## 22. 版本记录
+
+### v0.2.34 — 2026-08-16
+
+- 依据 `today-final.stitch.html/png` 修正真实 Today 两处精度：足迹移除目标子卡并恢复 32px 日期块、单层今日描边/标签；概览恢复 40px 视觉间距、16px 标题间距、160px 双卡、圆形图标和右下装饰图。周目标事实移至页头，真实数据不复制 Mock 数值。
+- 6 状态 × 1440/1366/768/390 精确 Token/几何/截图门禁与实时页面核验通过；同步 PROJECT_MASTER v0.1.44、PRD v0.1.36、TDD v0.3.37 与 PUSH-029，真实性边界不变。
 
 ### v0.2.33 — 2026-08-16
 

diff --git a/PROJECT_MASTER.md b/PROJECT_MASTER.md
@@ -2,9 +2,9 @@
 project_name: "知隙 GapProof"
 document_title: "GapProof 项目主文档（Project Master / 单一事实源）"
 document_role: "跨窗口协作、产品规划、技术设计、比赛交付与状态管理的唯一主文档"
-version: "0.1.43"
+version: "0.1.44"
 status: "ACTIVE"
-current_stage: "PUSH-028 已发布：真实 API Today 已汇流到冻结 Mock 视觉骨架，任务提交成功后刷新权威页面状态；不改变 OCR、个性化、学生记录或学习效果边界"
+current_stage: "PUSH-029 已发布：真实 API Today 的学习足迹与今日概览已按 Stitch V1.1 原 HTML/PNG 精确复原；只替换服务端事实，不复制 Mock 学习数据"
 last_updated: "2026-08-16"
 timezone: "Asia/Singapore"
 owner: "项目发起人"
@@ -2120,6 +2120,11 @@ review_date:
 ---
 
 ## 30. 变更日志
+
+### v0.1.44 — 2026-08-16
+
+- 按 `today-final.stitch.html/png` 精确复原真实 API Today 两处视觉：移除 Stitch 不存在的右栏目标卡，目标摘要回到页头；足迹恢复 32px 日期块、单层今日描边与可见标签；概览恢复 40px 视觉间距、16px 标题间距、160px 双卡、圆形图标和装饰图。
+- 真实完成天数、周目标、待确认数和最近进展仍只来自服务端，不复制 Mock 数值或效果结论。105 Web、双 TypeScript、Next build、6 状态 × 4 视口真实 API 精确几何/截图门禁及实时页面核验通过；同步 PRD v0.1.36、TDD v0.3.37、DESIGN v0.2.34 与 PUSH-029。
 
 ### v0.1.43 — 2026-08-16
 
